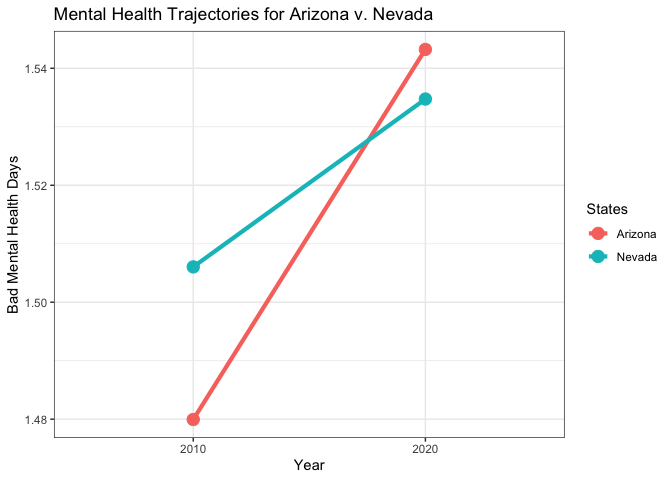
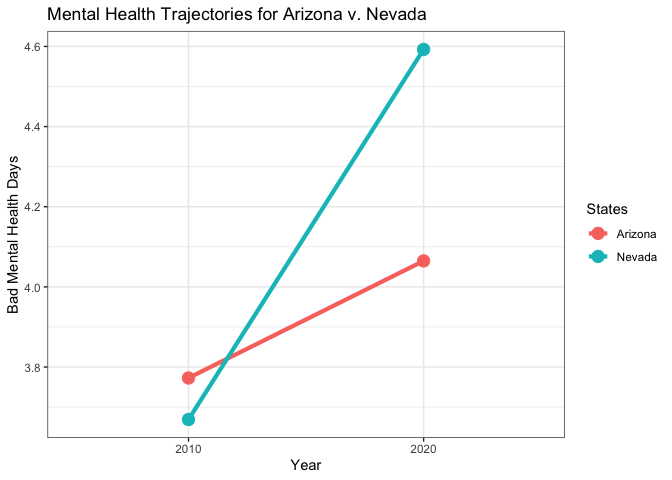
Push 3

diff --git a/BST260-Code-and-Plots.md b/BST260-Code-and-Plots.md
@@ -2,22 +2,75 @@ BST260 Code and Plots
 ================
 2022-12-15
 
-## Read in Behavioral Risk Factor Surveillance System data from 2010
+\##Introduction
+
+The past several years have ushered in both excitement and dismay at the
+influx of both protective and anti-transgender policies at the state
+level. In 2020 alone, just about half of US states (e.g., 23 states)
+introduced anti-transgender bills that spanned aspects of transgender
+life, health and wellness related to exclusion from athletics,
+implementing barriers to health care, and policies that limit the
+decision-making ability for transgender youth and their families. Some
+other states responded to transgender needs by expanding access to
+health care, and codifying protections(ACLU, 2022). The political
+landscape between 2016 and 2020 set the stage for transgender human
+rights to be fought for and against in local, state, and federal policy.
+
+To investigate the implications of policy changes on the mental health
+of transgender adults, this study will seek to estimate the association
+between pro-transgender gender identity-specific policies and the
+average number of bad mental health days in a 30 day period attempting
+suicide based on a difference-in-differences analysis using Behavioral
+Risk Surveillance Survey data; hypothesizing that state gender identity
+policies that are in favor of transgender rights and protections would
+be associated with reductions in the average number of bad mental health
+days experienced in a state.
+
+*Data and sample*
+
+Policy data was obtained from the Movement Advancement Project’s (MAP)
+aggregated database on LGBTQ-related polices and laws across the United
+States. At the state level, for each of these policies, MAP assigned a
+score, summed these scores, and created a “policy tally” for each state.
+The policies underwent an evaluation process that scored them based on
+their relevance to sexual orientation and gender (MAP, 2022). MAP
+monitors changes in the policy landscape for transgender rights at the
+state-level and updates maps and “snapshots” of the types of policies
+that are present or absent in a state, as well as shows the progression
+of policy change over the years. Below are the changes in the policy
+landscape for Arizona and Nevada between 2010 and 2020 related to gender
+identity
+
+In 2010, both Arizona and Nevada had Gender Identity Tallies that were
+“negative” – the lowest possible score for gender identity protections
+given by MAP. In 2020, Arizona maintained its low score and Nevada
+increased to the highest possible score at “High”. Data was obtained on
+general mental health from the state BRFSS, a Centers for Disease
+Control and Prevention- supported survey that “… collects state data
+about U.S residents regarding their health-related risk behaviors,
+chronic health conditions, and use of preventative services”. Data from
+two states, Arizona and Nevada were used from the BRFSS Surveys from
+2010 and 2020. These dates align with the state of LGBTQ policy as
+compiled by MAP.
+
+    The primary analysis was conducted with the full population of US adults. The analysis was focused on the full population of Arizona and Nevada respondents for the following reasons: 1) not all states collected information on gender identity and sexual orientation in 2010, this included Arizona and Nevada, 2) the full population may include individuals who are LGBTQ who may not have identified as such on the survey even if given the option. 3) the existence (or non-existence) of gender identity policies likely affect the number of individuals who self-identify as sexual or gender minorities. 
+
+*Read in Behavioral Risk Factor Surveillance System data from 2010*
 
 ``` r
 brfss10 <- read_xpt("/Users/kierantodd/Desktop/CDBRFS10.XPT",
-                    col_select = c(`IYEAR`,`_STATE`, `STOPSMK2`)) %>%
+                    col_select = c(`IYEAR`,`_STATE`, `MENTHLTH`)) %>%
   as.data.table() %>%
-  setnames(old = c("IYEAR","_STATE", "STOPSMK2"), new = c("YEAR","STATE", "MENTHLTH"))
+  setnames(old = c("IYEAR","_STATE", "MENTHLTH"), new = c("YEAR","STATE", "MENTHLTH"))
 ```
 
 ## Read in Behavioral Risk Factor Surveillance System data from 2020
 
 ``` r
 brfss20 <- read_xpt("/Users/kierantodd/Desktop/LLCP2020.XPT",
-                    col_select = c(`IYEAR`,`_STATE`, `STOPSMK2`)) %>%
+                    col_select = c(`IYEAR`,`_STATE`, `MENTHLTH`)) %>%
   as.data.table() %>%
-  setnames(old = c("IYEAR","_STATE", "STOPSMK2"), new = c("YEAR","STATE", "MENTHLTH"))
+  setnames(old = c("IYEAR","_STATE", "MENTHLTH"), new = c("YEAR","STATE", "MENTHLTH"))
 ```
 
 \##Combine BRFSS 2010 and BRFSS 2020 mental health data by State
@@ -43,18 +96,18 @@ brfss_all <- brfss_all |>
 na.omit(brfss_all)
 ```
 
-    ##       STATE YEAR MENTHLTH outcome
-    ##    1:     5 2010        2       2
-    ##    2:     5 2010        1       1
-    ##    3:     5 2010        2       2
-    ##    4:     5 2010        2       2
-    ##    5:     5 2010        2       2
-    ##   ---                            
-    ## 2621:    32 2020        2       2
-    ## 2622:    32 2020        1       1
-    ## 2623:    32 2020        2       2
-    ## 2624:    32 2020        2       2
-    ## 2625:    32 2020        2       2
+    ##        STATE YEAR MENTHLTH outcome
+    ##     1:     5 2010       88       0
+    ##     2:     5 2010       88       0
+    ##     3:     5 2010       88       0
+    ##     4:     5 2010       88       0
+    ##     5:     5 2010       88       0
+    ##    ---                            
+    ## 15373:    32 2020        1       1
+    ## 15374:    32 2020       88       0
+    ## 15375:    32 2020       88       0
+    ## 15376:    32 2020       88       0
+    ## 15377:    32 2020       88       0
 
 \##Rename States by their FIPS codes to the State Abbreviations
 
@@ -83,21 +136,21 @@ summary(did_model1)
     ## lm(formula = outcome ~ factor(STATE) * factor(YEAR), data = brfss_analysis)
     ## 
     ## Residuals:
-    ##     Min      1Q  Median      3Q     Max 
-    ## -0.5432 -0.5060  0.4568  0.4940  7.5201 
+    ##    Min     1Q Median     3Q    Max 
+    ## -4.593 -4.065 -3.669 -1.065 26.331 
     ## 
     ## Coefficients:
     ##                                      Estimate Std. Error t value Pr(>|t|)    
-    ## (Intercept)                           1.47994    0.02135  69.303   <2e-16 ***
-    ## factor(STATE)Nevada                   0.02610    0.02998   0.871   0.3841    
-    ## factor(YEAR)2020                      0.06328    0.02969   2.131   0.0331 *  
-    ## factor(STATE)Nevada:factor(YEAR)2020 -0.03458    0.04817  -0.718   0.4729    
+    ## (Intercept)                            3.7727     0.1323  28.518   <2e-16 ***
+    ## factor(STATE)Nevada                   -0.1036     0.1876  -0.553   0.5806    
+    ## factor(YEAR)2020                       0.2921     0.1765   1.655   0.0979 .  
+    ## factor(STATE)Nevada:factor(YEAR)2020   0.6313     0.2829   2.232   0.0256 *  
     ## ---
     ## Signif. codes:  0 '***' 0.001 '**' 0.01 '*' 0.05 '.' 0.1 ' ' 1
     ## 
-    ## Residual standard error: 0.5742 on 2570 degrees of freedom
-    ## Multiple R-squared:  0.00199,    Adjusted R-squared:  0.0008252 
-    ## F-statistic: 1.708 on 3 and 2570 DF,  p-value: 0.1632
+    ## Residual standard error: 8.283 on 15022 degrees of freedom
+    ## Multiple R-squared:  0.001357,   Adjusted R-squared:  0.001158 
+    ## F-statistic: 6.806 on 3 and 15022 DF,  p-value: 0.0001398
 
 # Plotting a density plot of mental health bad days in the pre period
 
